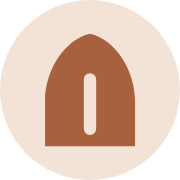
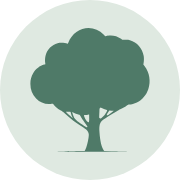
Lambang Markasku jadi pohon, warna Hanif Dossier
Kubah diganti pohon atas permintaan pemilik: Markasku menampung kebutuhan
yang bermacam-macam, dan pohon mewakili sesuatu yang sedang tumbuh.
Warnanya disamakan dengan lambang induk Hanif Dossier: siluet sage tua
#4f7a68 di atas lingkaran hijau pucat #dfe9e1.

Asal gambar, disimpan sebagai bukti lisensi:
  "Silhouette Tree" oleh ben, Openclipart 192637, lisensi CC0 1.0
  https://openclipart.org/detail/192637/silhouette-tree-by-ben-192637
  salinan Commons: File:Blue_Silhouette_-_Tree.svg
  (sha1 4eda16e78cd42469ee261c95ca9f47025740d0cb)
CC0 membolehkan dipakai dan dijadikan logo usaha tanpa izin dan tanpa
wajib mencantumkan nama pembuat. Berkas aslinya disimpan di
merek/sumber/, dan dibuat ulang dengan merek/markasku-pohon.mjs.

Web: ikon 180, 192, 512, dan maskable 512 diganti; rujukan ?v=5 jadi
?v=6 di tiga halaman dan manifest; cache service worker markas-v7 jadi
markas-v8, supaya HP yang sudah memasang tidak memakai ikon lama.

Android: ikon peluncur di lima kepadatan layar (ic_launcher,
ic_launcher_round, ic_launcher_foreground) dan warna latar ikon adaptif
#FFFFFF jadi #DFE9E1. Pohon di lapisan depan diperkecil ke 56% kanvas
supaya utuh di zona aman 66dp untuk semua bentuk potongan peluncur.
Baru sampai ke Play Store setelah AAB berikutnya diunggah.

diff --git a/index.html b/index.html
@@ -7,8 +7,8 @@
 <meta name="mobile-web-app-capable" content="yes">
 <meta name="apple-mobile-web-app-capable" content="yes">
 <link rel="manifest" href="manifest.webmanifest">
-<link rel="icon" href="ikon-192.png?v=5" type="image/png">
-<link rel="apple-touch-icon" href="ikon-180.png?v=5">
+<link rel="icon" href="ikon-192.png?v=6" type="image/png">
+<link rel="apple-touch-icon" href="ikon-180.png?v=6">
 <title>Markasku</title>
 <link rel="preconnect" href="https://fonts.googleapis.com">
 <link rel="stylesheet" href="https://fonts.googleapis.com/css2?family=Instrument+Serif:ital@0;1&family=Manrope:wght@400;500;600;700;800&family=JetBrains+Mono:wght@400;500;600&display=swap">

diff --git a/privasi.html b/privasi.html
@@ -4,7 +4,7 @@
 <meta charset="utf-8">
 <meta name="viewport" content="width=device-width, initial-scale=1">
 <title>Kebijakan Privasi Markasku</title>
-<link rel="icon" href="ikon-192.png?v=5" type="image/png">
+<link rel="icon" href="ikon-192.png?v=6" type="image/png">
 <style>
   :root { --tinta: #2a2118; --redup: #6b5f52; --latar: #f7f2ea; --garis: #e4dccf; --aksen: #b8742a; }
   body { margin: 0; background: var(--latar); color: var(--tinta); font: 16px/1.65 Georgia, "Times New Roman", serif; }

diff --git a/hapus-akun.html b/hapus-akun.html
@@ -4,7 +4,7 @@
 <meta charset="utf-8">
 <meta name="viewport" content="width=device-width, initial-scale=1">
 <title>Hapus Akun Markasku</title>
-<link rel="icon" href="ikon-192.png?v=5" type="image/png">
+<link rel="icon" href="ikon-192.png?v=6" type="image/png">
 <style>
   :root { --tinta: #2a2118; --redup: #6b5f52; --latar: #f7f2ea; --garis: #e4dccf; --aksen: #b8742a; }
   body { margin: 0; background: var(--latar); color: var(--tinta); font: 16px/1.65 Georgia, "Times New Roman", serif; }

diff --git a/sw.js b/sw.js
@@ -1,6 +1,6 @@
 // Service worker Markasku: ambil dari jaringan dulu, salinan terakhir dipakai kalau offline (data tetap dari Supabase).
 // Juga menerima Web Push (notifikasi adzan dari Edge Function adzan-push) dan membuka Markasku saat notifikasi diketuk.
-const CACHE = 'markas-v7';
+const CACHE = 'markas-v8';
 self.addEventListener('install', () => self.skipWaiting());
 self.addEventListener('activate', e => e.waitUntil(clients.claim()));
 self.addEventListener('fetch', e => {
